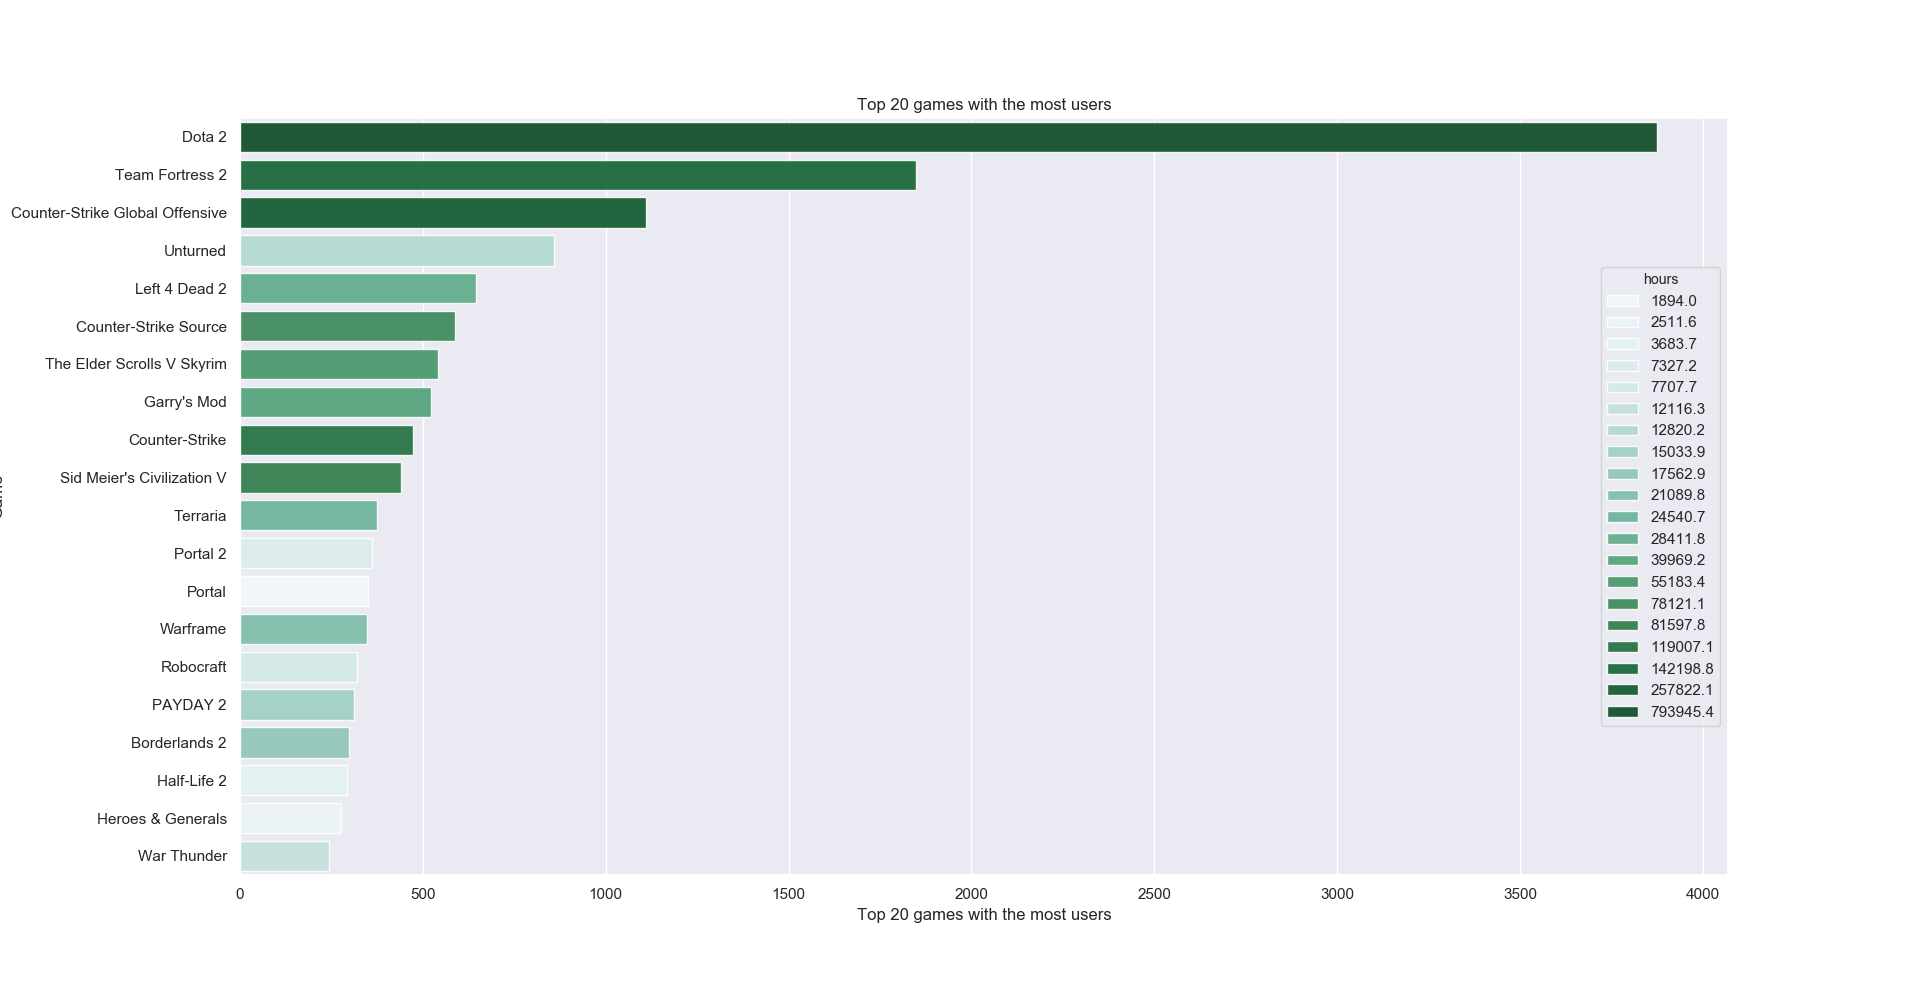
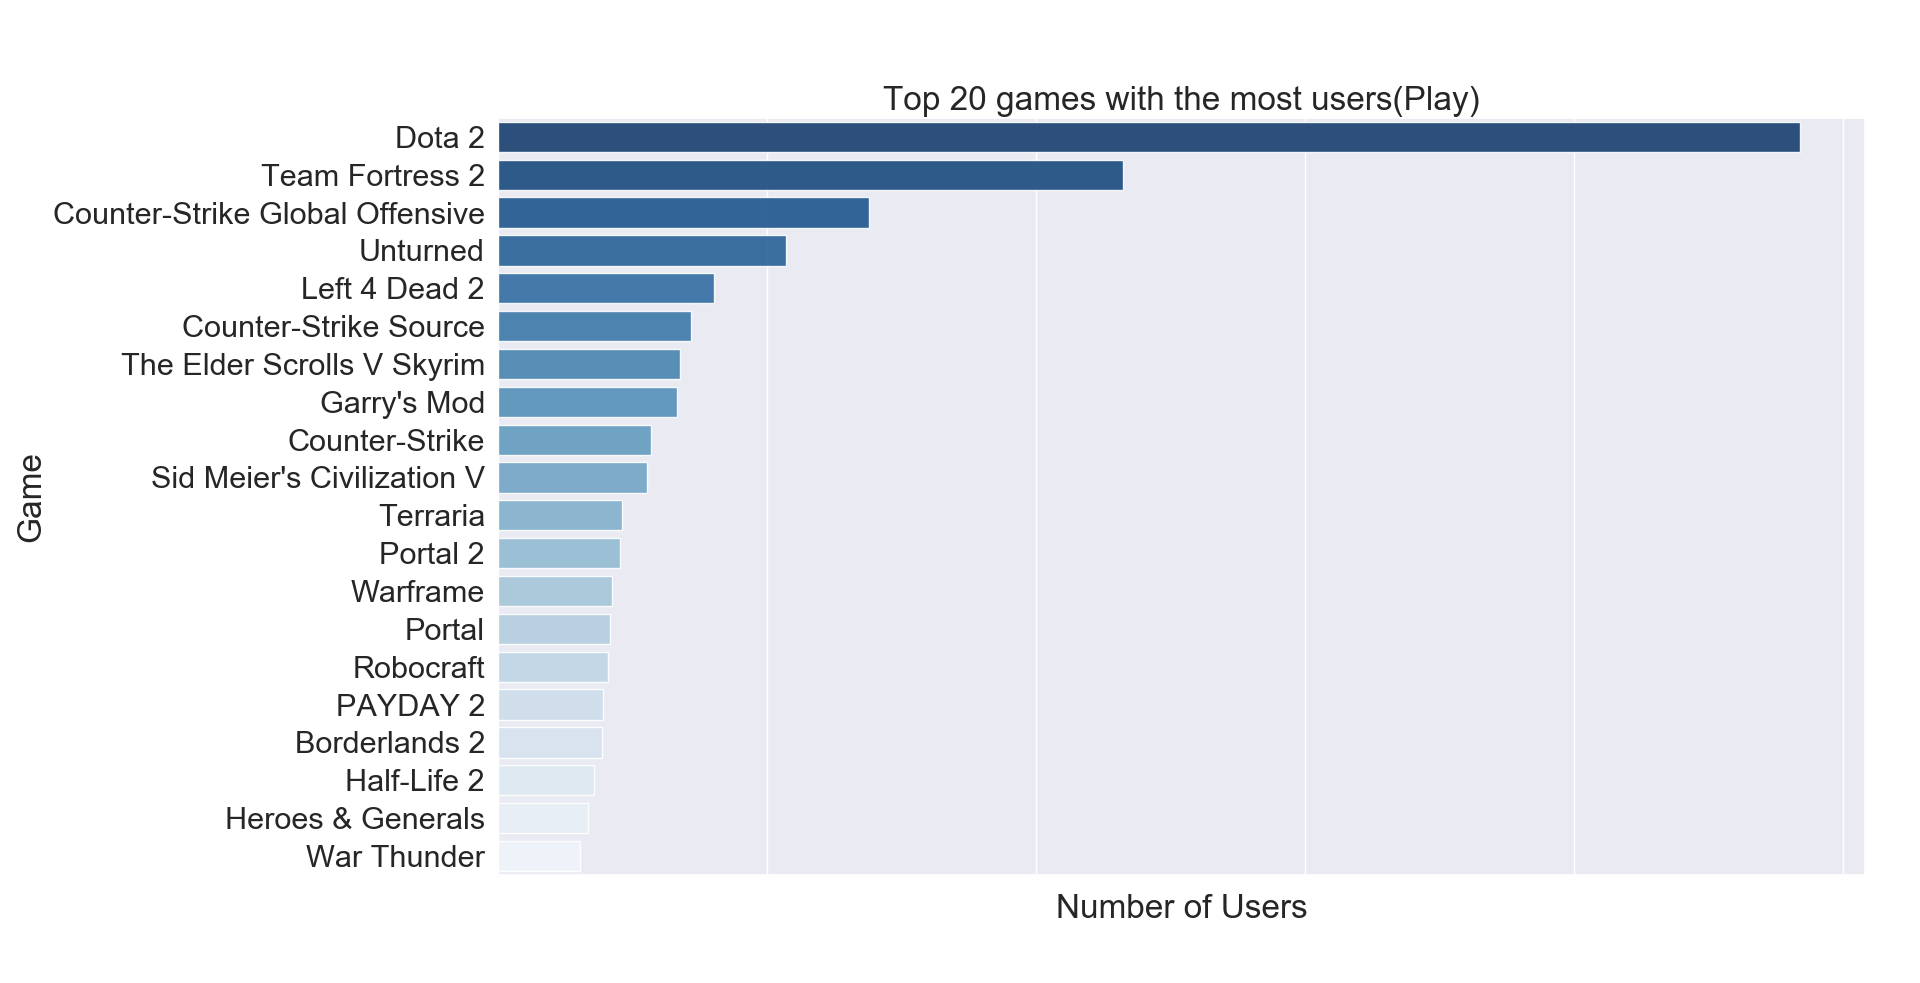
modfity histogram

diff --git a/script/data_analysis/histogram.py b/script/data_analysis/histogram.py
@@ -21,11 +21,29 @@ print(top20)
 # show histogram
 plt.figure(figsize=(20, 10))
 sns.set(font_scale = 2)
-
-ax = sns.barplot(x='game', y='user', data=top20, palette='Blues_r')
-ax.set(xlabel='Game', ylabel='Number of users', title='Top 20 games with the most users')
+ax = sns.barplot(x='user', y='game', alpha=0.9,data=top20, palette='Blues_r',dodge=False)
+ax.set(xlabel='Number of Users', ylabel='Game', title='Top 20 games with the most users(All)')
 ax.set_xticklabels(ax.get_xticklabels(), rotation=90)
 plt.show()
+
+#consider the situation that only included play
+index=steam_clean[steam_clean['play']==0].index
+steam_clean.drop(index,inplace=True)
+game_total_hrs = steam_clean.groupby(by='game')['hrs'].sum()
+most_played_games = game_total_hrs.sort_values(ascending=False)[:20]
+# game with the highest number of users
+game_freq = steam_clean.groupby(by='game').agg({'user': 'count', 'hrs': 'sum'}).reset_index()
+top20 = game_freq.sort_values(by='user',ascending=False)[:20].reset_index()
+
+plt.figure(figsize=(20, 10))
+sns.set(font_scale = 2)
+ax = sns.barplot(x='user', y='game', alpha=0.9,data=top20, palette='Blues_r',dodge=False)
+ax.set(xlabel='Number of Users', ylabel='Game', title='Top 20 games with the most users(Play)')
+ax.set_xticklabels(ax.get_xticklabels(), rotation=90)
+plt.show()
+
+
+
 
 
 

diff --git a/script/data_analysis/reformate_purchase_play.py b/script/data_analysis/reformate_purchase_play.py
@@ -62,12 +62,13 @@ Eb=pd.Categorical(most,ordered=True)
 
 #Histogram
 #print(most) for check
-sns.set(style="darkgrid")
-sns.barplot(x='alusers',y='game_name',hue='hours',alpha=0.9,data=most,palette='BuGn',dodge=False)
-plt.title('Top 20 games with the most users')
-plt.ylabel('Game', fontsize=12)
-plt.xlabel('Top 20 games with the most users', fontsize=12)
-plt.show()
+game_total_hrs = steam_clean.groupby(by='game')['hrs'].sum()
+most_played_games = game_total_hrs.sort_values(ascending=False)[:20]
+
+
+# game with the highest number of users
+game_freq = steam_clean.groupby(by='game').agg({'user': 'count', 'hrs': 'sum'}).reset_index()
+top20 = game_freq.sort_values(by='user',ascending=False)[:20].reset_index()
 
 #print(ggplot(Eb, aes(x = 'game_name', y = 'alusers', fill = 'hours')) +
 #      geom_bar(stat = "identity") +
